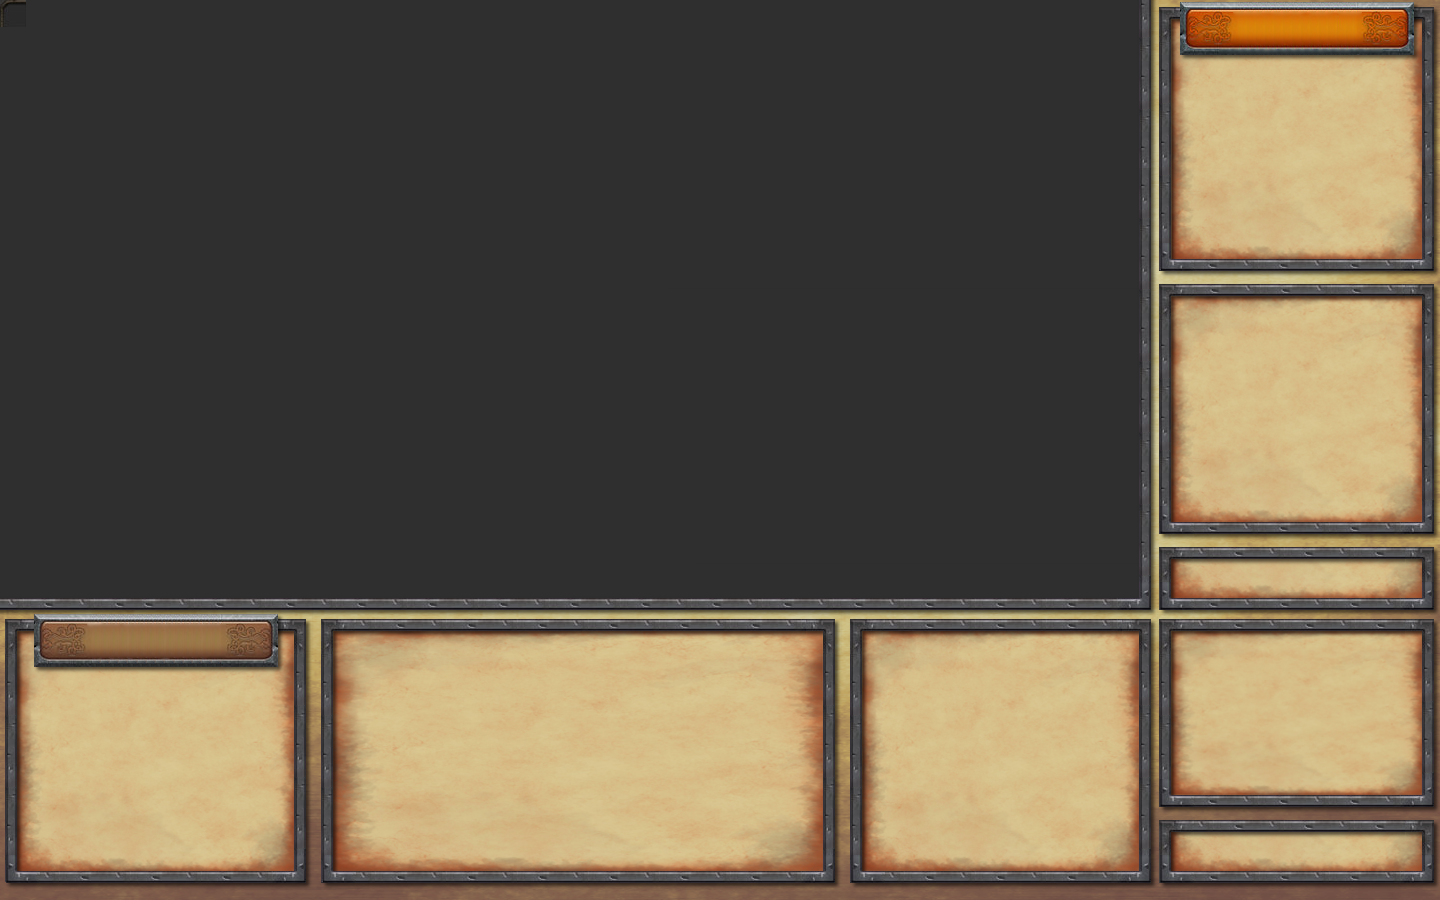
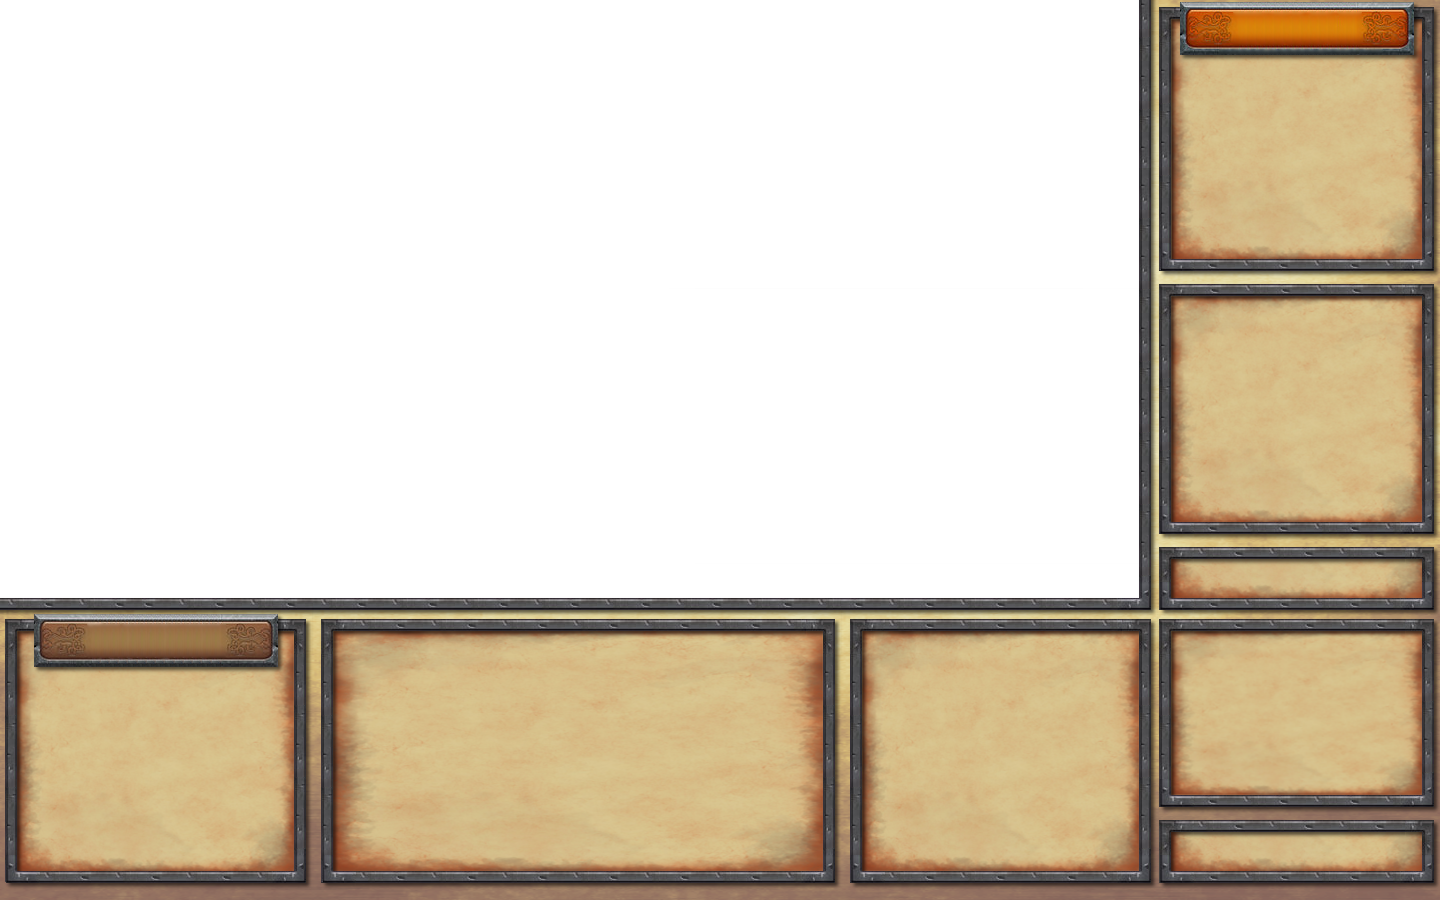
Updates

diff --git a/core/src/main/java/com/barrypress/dd/core/board/BoardTile.java b/core/src/main/java/com/barrypress/dd/core/board/BoardTile.java
@@ -1,0 +1,133 @@
+package com.barrypress.dd.core.board;
+
+import com.badlogic.gdx.Gdx;
+import com.badlogic.gdx.graphics.Texture;
+import com.badlogic.gdx.graphics.g2d.TextureRegion;
+import com.badlogic.gdx.maps.tiled.TiledMap;
+import com.badlogic.gdx.maps.tiled.TiledMapTileLayer;
+import com.badlogic.gdx.maps.tiled.tiles.StaticTiledMapTile;
+import com.google.gson.Gson;
+
+import java.io.FileInputStream;
+import java.io.InputStreamReader;
+import java.util.ArrayList;
+import java.util.HashMap;
+import java.util.List;
+import java.util.Map;
+
+public class BoardTile {
+
+    public enum TileType { FLOOR, WALL };
+    public enum ROTATION { ROTATE_0, ROTATE_90, ROTATE_180, ROTATE_270 };
+
+    private Texture tiles;
+    private TextureRegion[][] splitTiles;
+    private Map<TileType, TiledMapTileLayer.Cell> cells;
+    private Tiles tileData;
+
+    public BoardTile() {
+
+        try {
+            FileInputStream fis = new FileInputStream(Gdx.files.internal("core/src/main/java/com/barrypress/dd/core/board/assets/tiles.json").file());
+            tileData = new Gson().fromJson(new InputStreamReader(fis), Tiles.class);
+            fis.close();
+        } catch (Exception e) {
+
+        }
+
+        tiles = new Texture(Gdx.files.internal("core/src/main/java/com/barrypress/dd/core/board/assets/iso1.png"));
+        cells = new HashMap<>();
+        splitTiles = TextureRegion.split(tiles, 64, 64);
+        cells.put(TileType.FLOOR, new TiledMapTileLayer.Cell());
+        cells.put(TileType.WALL, new TiledMapTileLayer.Cell());
+
+        cells.get(TileType.FLOOR).setTile(new StaticTiledMapTile(splitTiles[0][3]));
+        cells.get(TileType.WALL).setTile(new StaticTiledMapTile(splitTiles[5][0]));
+    }
+
+    public TiledMapTileLayer create(int tile, int x, int y, ROTATION rotation) {
+
+        TiledMapTileLayer layer = new TiledMapTileLayer(8, 8, 64, 32);
+        List<TileType> types = rotate(rotation, tileData.getTypes(tile));
+
+        layer.setCell(0 + x, 0 + y, cells.get(types.get(0)));
+        layer.setCell(0 + x, 1 + y, cells.get(types.get(1)));
+        layer.setCell(0 + x, 2 + y, cells.get(types.get(2)));
+        layer.setCell(0 + x, 3 + y, cells.get(types.get(3)));
+
+        layer.setCell(1 + x, 0 + y, cells.get(types.get(4)));
+        layer.setCell(1 + x, 1 + y, cells.get(types.get(5)));
+        layer.setCell(1 + x, 2 + y, cells.get(types.get(6)));
+        layer.setCell(1 + x, 3 + y, cells.get(types.get(7)));
+
+        layer.setCell(2 + x, 0 + y, cells.get(types.get(8)));
+        layer.setCell(2 + x, 1 + y, cells.get(types.get(9)));
+        layer.setCell(2 + x, 2 + y, cells.get(types.get(10)));
+        layer.setCell(2 + x, 3 + y, cells.get(types.get(11)));
+
+        layer.setCell(3 + x, 0 + y, cells.get(types.get(12)));
+        layer.setCell(3 + x, 1 + y, cells.get(types.get(13)));
+        layer.setCell(3 + x, 2 + y, cells.get(types.get(14)));
+        layer.setCell(3 + x, 3 + y, cells.get(types.get(15)));
+
+        return layer;
+    }
+
+    public List<TileType> rotate(ROTATION rotation, List<TileType> tileTypes) {
+
+        List<TileType> rotated = null;
+
+        switch (rotation) {
+            case ROTATE_0:
+                rotated = tileTypes;
+                break;
+            case ROTATE_90:
+                rotated = new ArrayList<>();
+                rotated.add(tileTypes.get(12));
+                rotated.add(tileTypes.get(8));
+                rotated.add(tileTypes.get(4));
+                rotated.add(tileTypes.get(0));
+                rotated.add(tileTypes.get(13));
+                rotated.add(tileTypes.get(9));
+                rotated.add(tileTypes.get(5));
+                rotated.add(tileTypes.get(1));
+                rotated.add(tileTypes.get(14));
+                rotated.add(tileTypes.get(10));
+                rotated.add(tileTypes.get(6));
+                rotated.add(tileTypes.get(2));
+                rotated.add(tileTypes.get(15));
+                rotated.add(tileTypes.get(11));
+                rotated.add(tileTypes.get(7));
+                rotated.add(tileTypes.get(3));
+                break;
+            case ROTATE_180:
+                rotated = new ArrayList<>();
+                for (int i = tileTypes.size() - 1; i >= 0; i--) {
+                    rotated.add(tileTypes.get(i));
+                }
+
+                break;
+            case ROTATE_270:
+                rotated = new ArrayList<>();
+                rotated.add(tileTypes.get(3));
+                rotated.add(tileTypes.get(7));
+                rotated.add(tileTypes.get(11));
+                rotated.add(tileTypes.get(15));
+                rotated.add(tileTypes.get(2));
+                rotated.add(tileTypes.get(6));
+                rotated.add(tileTypes.get(10));
+                rotated.add(tileTypes.get(14));
+                rotated.add(tileTypes.get(1));
+                rotated.add(tileTypes.get(5));
+                rotated.add(tileTypes.get(9));
+                rotated.add(tileTypes.get(13));
+                rotated.add(tileTypes.get(0));
+                rotated.add(tileTypes.get(4));
+                rotated.add(tileTypes.get(8));
+                rotated.add(tileTypes.get(12));
+                break;
+        }
+
+        return rotated;
+    }
+}

diff --git a/core/src/main/java/com/barrypress/dd/core/board/BoardView.java b/core/src/main/java/com/barrypress/dd/core/board/BoardView.java
@@ -1,0 +1,96 @@
+package com.barrypress.dd.core.board;
+
+import com.badlogic.gdx.Gdx;
+import com.badlogic.gdx.Input.Buttons;
+import com.badlogic.gdx.graphics.GL20;
+import com.badlogic.gdx.graphics.OrthographicCamera;
+import com.badlogic.gdx.graphics.Texture;
+import com.badlogic.gdx.graphics.g2d.SpriteBatch;
+import com.badlogic.gdx.graphics.g2d.TextureRegion;
+import com.badlogic.gdx.maps.MapLayers;
+import com.badlogic.gdx.maps.tiled.TiledMap;
+import com.badlogic.gdx.maps.tiled.TiledMapTileLayer;
+import com.badlogic.gdx.maps.tiled.TmxMapLoader;
+import com.badlogic.gdx.maps.tiled.renderers.IsometricTiledMapRenderer;
+import com.badlogic.gdx.maps.tiled.tiles.StaticTiledMapTile;
+import com.badlogic.gdx.math.Matrix4;
+import com.badlogic.gdx.math.Vector3;
+import com.badlogic.gdx.scenes.scene2d.Stage;
+import com.badlogic.gdx.utils.viewport.ScreenViewport;
+
+public class BoardView {
+
+    private float viewHeight;
+    private float viewWidth;
+
+    private Stage stage;
+    private TiledMap map;
+    private IsometricTiledMapRenderer renderer;
+    private SpriteBatch batch;
+    private OrthographicCamera camera;
+
+    public BoardView() {
+    }
+
+    public void init() {
+
+        viewHeight = (float) Gdx.graphics.getHeight() * .69f;
+        viewWidth = (float) Gdx.graphics.getWidth() * .79f;
+
+        batch = new SpriteBatch();
+        stage = new Stage(new ScreenViewport(), batch);
+
+        BoardTile tiles = new BoardTile();
+
+        map = new TiledMap();
+        MapLayers layers = map.getLayers();
+        layers.add(tiles.create(1, 0, 0, BoardTile.ROTATION.ROTATE_0));
+        layers.add(tiles.create(2, 0, 4, BoardTile.ROTATION.ROTATE_270));
+
+        renderer = new IsometricTiledMapRenderer(map);
+
+        camera = new OrthographicCamera();
+        camera.setToOrtho(false, viewWidth, viewHeight);
+    }
+
+    public void render() {
+        Gdx.gl20.glClearColor(47/255f, 47/255f, 47/255f, 1.0F);
+        Gdx.gl.glClear(GL20.GL_COLOR_BUFFER_BIT);
+        Gdx.gl.glViewport(0, Math.round(Gdx.graphics.getHeight() * .34f), Math.round(viewWidth), Math.round(viewHeight));
+
+        camera.update();
+        renderer.setView(camera);
+        renderer.render();
+    }
+
+    public boolean scrolled(int amount) {
+        camera.zoom += 0.1 * amount;
+        // Don't go below the map
+        if (camera.zoom < 0.01)
+            camera.zoom = (float) 0.01;
+        return false;
+    }
+
+    public boolean pan(float x, float y, float deltaX, float deltaY) {
+        camera.position.add(camera.zoom * -deltaX, camera.zoom * deltaY, 0);
+        return false;
+    }
+
+    public boolean touchDown(int screenX, int screenY, int pointer, int button) {
+        if (button == Buttons.MIDDLE)
+            camera.zoom = 1;
+        return false;
+    }
+
+    public void resize(int width, int height) {
+        camera.viewportWidth = width;
+        camera.viewportHeight = height;
+    }
+
+    public void dispose() {
+        map.dispose();
+        renderer.dispose();
+    }
+
+    public Stage getStage() { return stage; }
+}

diff --git a/core/src/main/java/com/barrypress/dd/core/board/Tiles.java b/core/src/main/java/com/barrypress/dd/core/board/Tiles.java
@@ -1,0 +1,60 @@
+package com.barrypress.dd.core.board;
+
+import java.util.ArrayList;
+import java.util.List;
+
+public class Tiles {
+
+    public class Details {
+        private int index;
+        private List<BoardTile.TileType> type;
+
+        public Details() {
+            type = new ArrayList<>();
+        }
+
+        public int getIndex() {
+            return index;
+        }
+
+        public void setIndex(int index) {
+            this.index = index;
+        }
+
+        public List<BoardTile.TileType> getType() {
+            return type;
+        }
+
+        public void setType(List<BoardTile.TileType> type) {
+            this.type = type;
+        }
+    }
+
+    private List<Details> tiles;
+
+    public Tiles() {
+        tiles = new ArrayList<>();
+    }
+
+    public List<Details> getTiles() {
+        return tiles;
+    }
+
+    public void setTiles(List<Details> tiles) {
+        this.tiles = tiles;
+    }
+
+    public List<BoardTile.TileType> getTypes(int index) {
+
+        List<BoardTile.TileType> types = null;
+
+        for (Details details: tiles) {
+            if (details.getIndex() == index) {
+                types = details.getType();
+                break;
+            }
+        }
+
+        return types;
+    }
+}

diff --git a/core/src/main/java/com/barrypress/dd/core/DD.java b/core/src/main/java/com/barrypress/dd/core/DD.java
@@ -1,6 +1,9 @@
 package com.barrypress.dd.core;
 
 import com.badlogic.gdx.ApplicationListener;
+import com.badlogic.gdx.Gdx;
+import com.badlogic.gdx.InputMultiplexer;
+import com.barrypress.dd.core.board.BoardView;
 import com.barrypress.dd.core.character.*;
 import com.barrypress.dd.core.hud.HUDView;
 
@@ -9,6 +12,7 @@ import java.util.List;
 
 public class DD implements ApplicationListener {
 
+    private BoardView boardView;
 	private HUDView hudView;
     private List<PC> characters;
 
@@ -26,9 +30,18 @@ public class DD implements ApplicationListener {
         characters.add(immeril);
         characters.add(kat);
 
+        boardView = new BoardView();
+        boardView.init();
+
         hudView = new HUDView(characters);
         hudView.init();
-	}
+
+        InputMultiplexer inputMultiplexer = new InputMultiplexer();
+        inputMultiplexer.addProcessor(hudView.getStage());
+        inputMultiplexer.addProcessor(boardView.getStage());
+
+        Gdx.input.setInputProcessor(inputMultiplexer);
+    }
 
 	@Override
 	public void resize (int width, int height) {
@@ -36,6 +49,8 @@ public class DD implements ApplicationListener {
 
 	@Override
 	public void render () {
+
+        boardView.render();
         hudView.render();
 	}
 

diff --git a/core/src/main/java/com/barrypress/dd/core/hud/HUDView.java b/core/src/main/java/com/barrypress/dd/core/hud/HUDView.java
@@ -69,7 +69,6 @@ public class HUDView {
         Gdx.gl.glBlendFunc(GL20.GL_SRC_ALPHA, GL20.GL_ONE_MINUS_SRC_ALPHA);
 
         stage = new Stage(new StretchViewport((float) Gdx.graphics.getWidth(), (float) Gdx.graphics.getHeight()), batch);
-        Gdx.input.setInputProcessor(stage);
 
         Sprite mainGame = new Sprite(new Texture(Gdx.files.internal("core/src/main/java/com/barrypress/dd/core/hud/assets/maingame.png")));
 
@@ -219,16 +218,16 @@ public class HUDView {
 
     public void render() {
 
-        Gdx.gl20.glClearColor(47/255f, 47/255f, 47/255f, 1.0F);
-        Gdx.gl.glClear(GL20.GL_COLOR_BUFFER_BIT);
+        //Gdx.gl20.glClearColor(47/255f, 47/255f, 47/255f, 0F);
+        //Gdx.gl.glClear(GL20.GL_COLOR_BUFFER_BIT);
         Gdx.gl.glViewport(0, 0, Gdx.graphics.getWidth(), Gdx.graphics.getHeight());
 
-        batch.begin();
-        bitmapFont.draw(this.batch, "FPS:" + Gdx.graphics.getFramesPerSecond(), 20.0F, 20.0F);
-        batch.end();
+        stage.getViewport().update(Gdx.graphics.getWidth(), Gdx.graphics.getHeight());
         //stage.setDebugAll(true);
         stage.act();
         stage.draw();
     }
+
+    public Stage getStage() { return stage; }
 
 }
